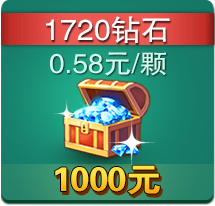
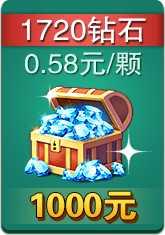
201807201059

diff --git a/Xiu_Game/public/css/style.css b/Xiu_Game/public/css/style.css
@@ -71,7 +71,7 @@ body, html {
 }
 .buy_head_bg{
     width:100%;
-    height:28%;
+    height:35%;
     display:-webkit-flex;
     -webkit-flex-direction:column;
     background:url(/img/diamond/query_head.png);
@@ -79,7 +79,7 @@ body, html {
 }
 .buy_bg{
     width:100%;
-    height:72%;
+    height:65%;
     display:-webkit-flex;
     -webkit-flex-direction:column;
     background:url(/img/diamond/query_bg.png?v=20180515);

diff --git a/Xiu_Game/resources/views/BuyCard/palyerbuy.blade.php b/Xiu_Game/resources/views/BuyCard/palyerbuy.blade.php
@@ -14,7 +14,7 @@
     <title>休休游戏--游戏充值</title>
     <link rel="stylesheet" href="{{asset('js/weui/css/weui.min.css')}}">
     <link rel="stylesheet" href="{{asset('js/weui/css/jquery-weui.min.css')}}">
-    <link rel="stylesheet" type="text/css" href="{{asset('/css/style.css')}}?v=2018072001">
+    <link rel="stylesheet" type="text/css" href="{{asset('/css/style.css')}}?v=2018072002">
 </head>
 <body>
 <div class="buy_head_bg"></div>
